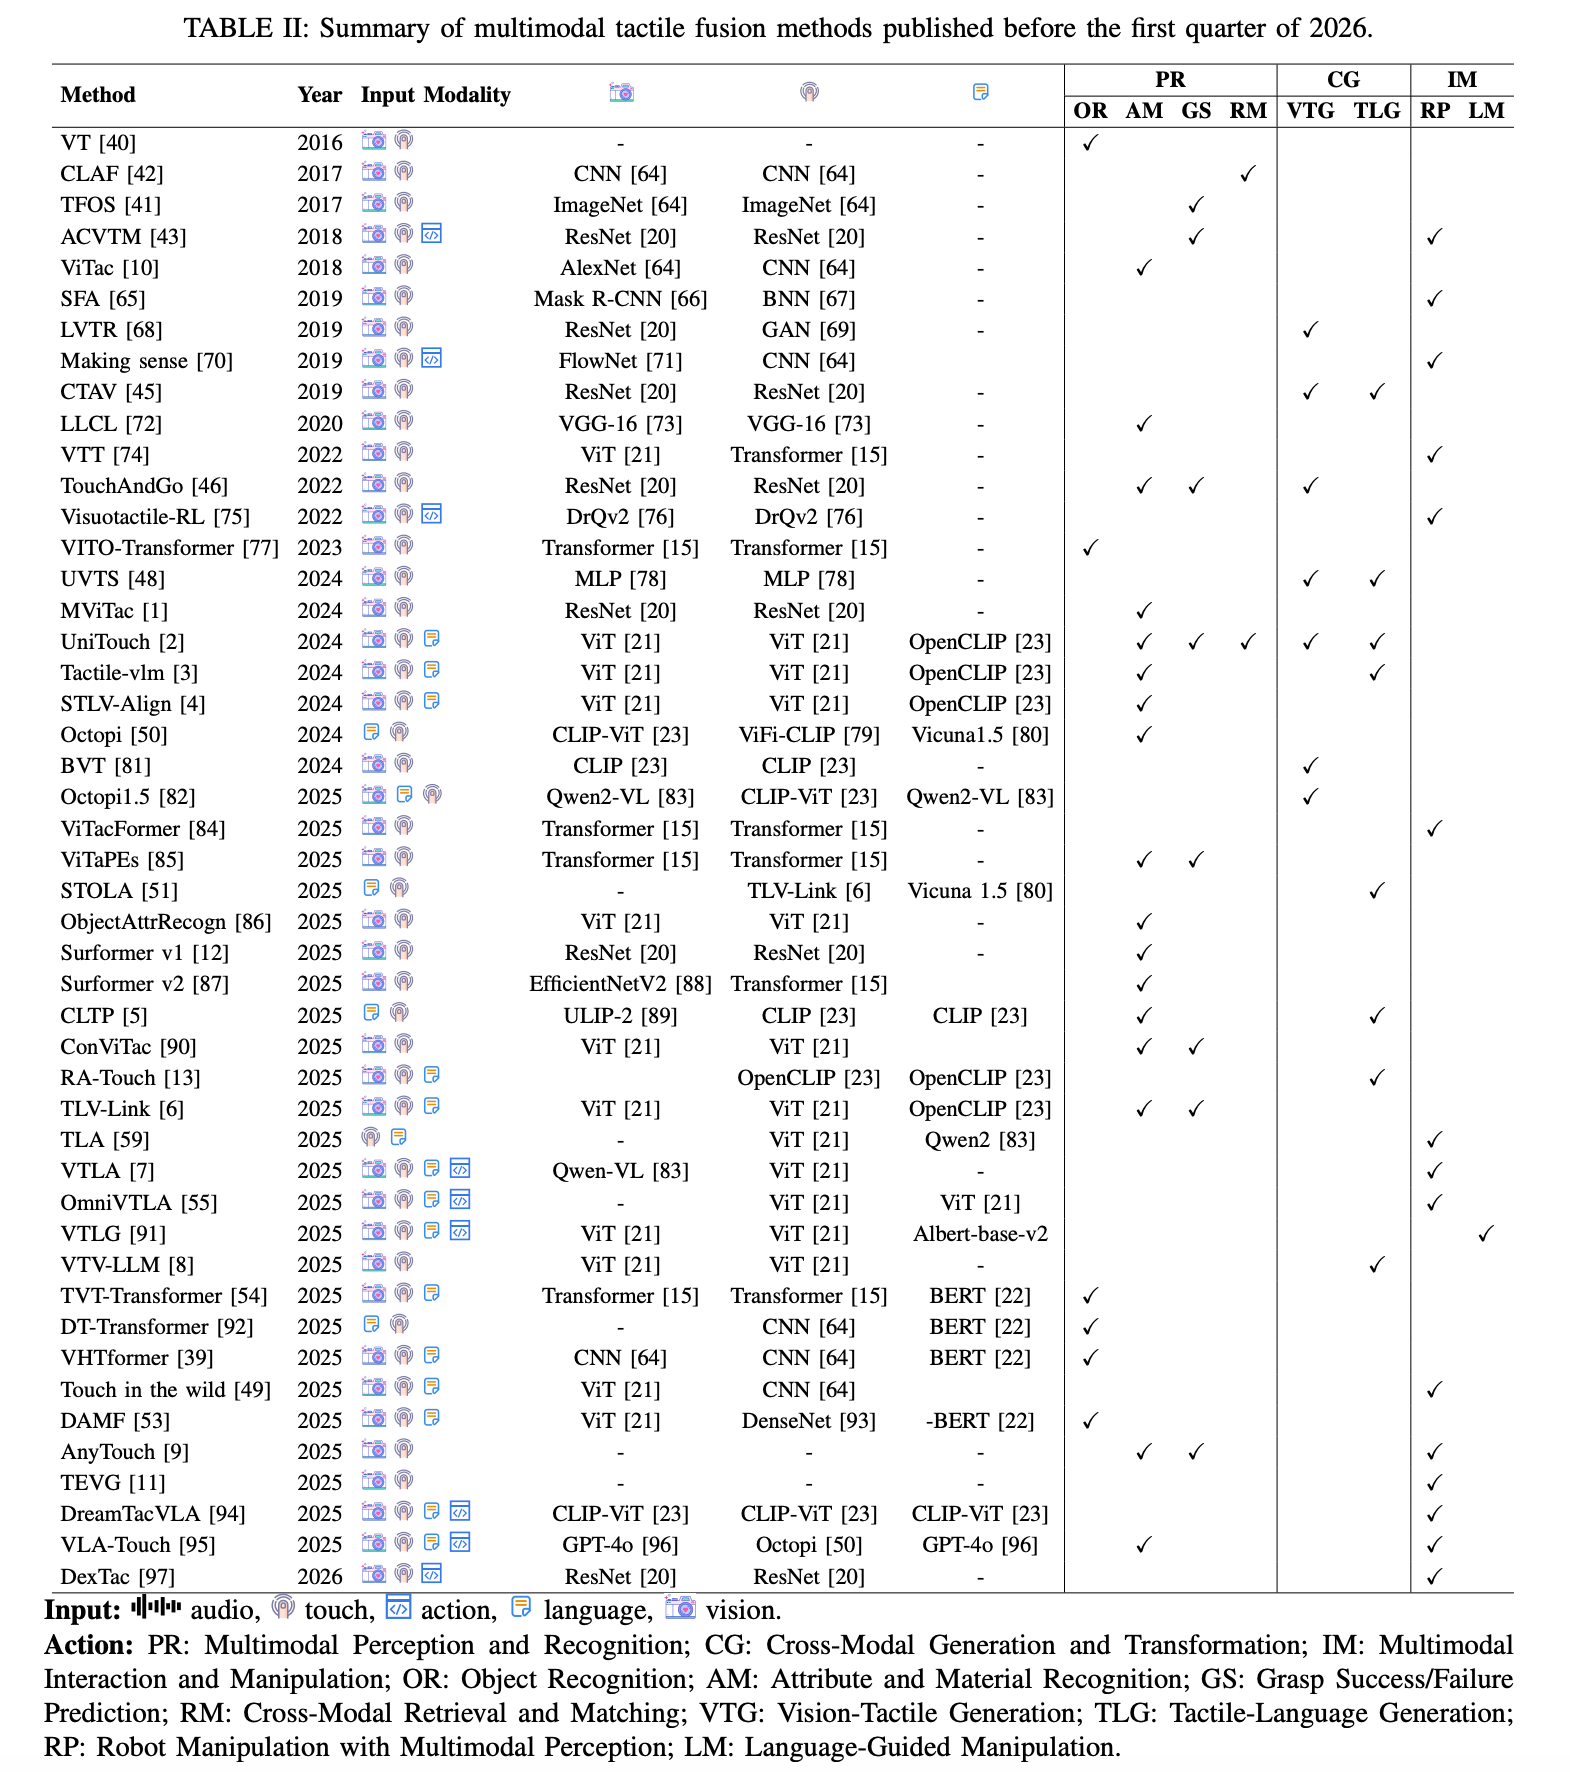
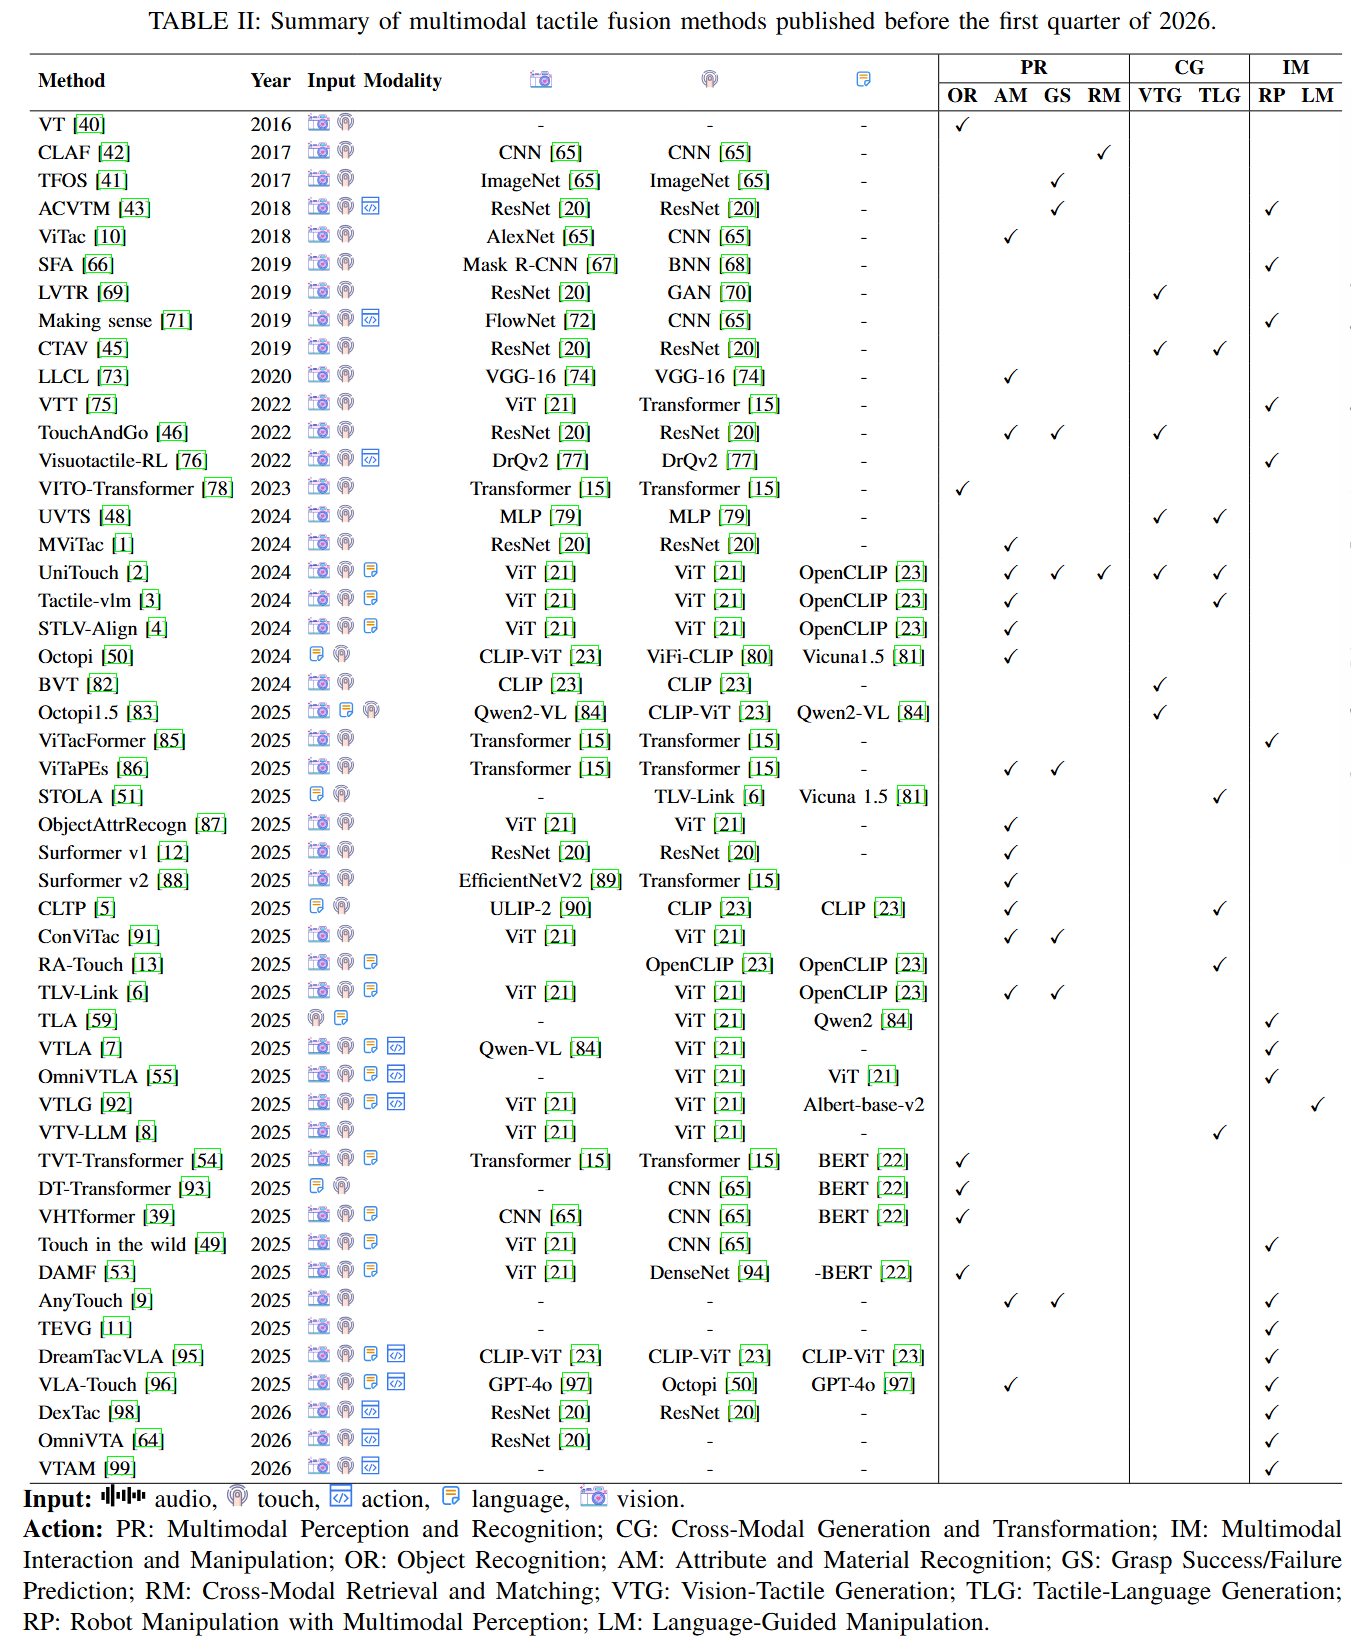
first commit

Changed region(s): [[0.0, 0.0, 0.9948, 1.0], [0.8083, 0.4335, 0.8394, 0.4645], [0.8083, 0.3406, 0.8394, 0.3716]]

diff --git a/README.md b/README.md
@@ -1,7 +1,7 @@
 
 <div align="center">
 
-## Multimodal Tactile Sensing and Fusion: A Survey of Vision, Language, and Contact-Driven Paradigms
+## Tactile-based Multimodal Fusion in Embodied Intelligence: A Survey of Vision, Language, and Contact-Driven Paradigms
 
 [![arXiv](https://img.shields.io/badge/arXiv-TBD-b31b1b.svg)]()
 <img alt="License" src="https://img.shields.io/badge/License-CC%20BY%204.0-blue">
@@ -9,7 +9,10 @@
 ![Visitors](https://api.visitorbadge.io/api/visitors?path=Wayne-coding/Multimodal-Tactile-Sensing-and-Fusion&label=visitors&countColor=%23263759&style=flat)
 <a href="https://github.com/Wayne-coding/Multimodal-Tactile-Sensing-and-Fusion/issues"><img src="https://img.shields.io/github/issues/Wayne-coding/Multimodal-Tactile-Sensing-and-Fusion" alt="Issues Badge"/></a>
 
-Zhixiang Cao<sup>1, 2</sup>, Di Tian<sup>1</sup>, Yanzhou Mu<sup>4</sup>, Xiaolou Sun<sup>5</sup>, Shaofeng Liang<sup>6</sup>, Daizong Liu<sup>7</sup>, Runwei Guan<sup>1*</sup>, Tao Huang<sup>8</sup>, Bin Fang<sup>9</sup>, Henghui Ding<sup>10</sup>, Alex Zhou<sup>11</sup>, and Hui Xiong<sup>1*</sup>
+Zhixiang Cao<sup>1, 2</sup>, Di Tian<sup>1</sup>, Yanzhou Mu<sup>4</sup>, Xiaolou Sun<sup>5</sup>, Shaofeng Liang<sup>6</sup>, Daizong Liu<sup>7</sup>, Runwei Guan<sup>1*</sup>, Tao Huang<sup>8</sup>, Yutao Yue<sup>1</sup>, Henghui Ding<sup>10</sup>, Bin Fang<sup>9</sup>, Alex Zhou<sup>11</sup>, Qing-Long Han<sup>11</sup>, *Fellow, IEEE*, and Hui Xiong<sup>1*</sup>, *Fellow, IEEE*,
+
+
+
 
 </div>
 
@@ -24,6 +27,7 @@ Zhixiang Cao<sup>1, 2</sup>, Di Tian<sup>1</sup>, Yanzhou Mu<sup>4</sup>, Xiaolo
 8. School of Artificial Intelligence, Beijing University of Posts and Telecommunications, China
 9. Institute of Big Data, Fudan University, China
 10. Linkerbot (Beijing) Technology Co., Ltd, China
+11. School of Engineering, Swinburne University of Technology, Melbourne.
 
 <sup>*</sup> Corresponding authors: `runwayrwguan@hkust-gz.edu.cn`, `xionghui@hkust-gz.edu.cn`
 
@@ -377,6 +381,10 @@ Organized by major taxonomy categories and chronological order, the figure highl
 
 * **DexTac**: "Dextac: Learning contact-aware visuotactile policies via hand-by-hand teaching", *2026* [[Paper](https://arxiv.org/pdf/2601.21474)]
 
+* **OmniVTA**: "OmniVTA: Visuo-Tactile World Modeling for Contact-Rich Robotic Manipulation", *2026* [[Paper](https://arxiv.org/pdf/2603.19201)][[Code](https://github.com/MrSecant/OmniVTA)] ![Github stars](https://img.shields.io/github/stars/MrSecant/OmniVTA.svg)
+
+* **VTAM**: "VTAM: Video-Tactile-Action Models for Complex Physical Interaction Beyond VLAs, *2026* [[Paper](https://arxiv.org/abs/2603.23481)]
+
 #### Multimodal Manipulation under Language Instructions
 
 * **VTLG**: "Vtlg: A vision-tactile-language grasp generation method oriented towards task", *2025* [[Paper](https://www.sciencedirect.com/science/article/pii/S0736584525002066)]
@@ -385,13 +393,62 @@ Organized by major taxonomy categories and chronological order, the figure highl
 
 ### Wearable Tactile Systems
 
+*  "A glove-based system for object recognition via visual-tactile fusion", *2019* [[Paper](http://scis.scichina.com/en/2019/050203.pdf)]
+ 
+* "Osmo: Open-source tactile glove for human-to-robot skill transfer", *2025* [[Paper](https://arxiv.org/abs/2512.08920)]
+ 
+* "Freetacman: Robot-free visuo-tactile data collection system for contact-rich manipulation", *2025* [[Paper](https://arxiv.org/abs/2506.01941)]
 
 ### Handheld and Fingertip Sensors
 
+* "A novel multi-modal tactile sensor design using thermochromic material", *2019* [[Paper](http://scis.scichina.com/en/2019/214201.pdf)]
+
+* "A Compact Visuo-Tactile Robotic Skin for Micron-Level Tactile Perception", *2024* [[Paper](https://ieeexplore.ieee.org/abstract/document/10474279)]
+ 
+*  "LightTact: A Visual-Tactile Fingertip Sensor for Deformation-Independent Contact Sensing", *2025* [[Paper](https://arxiv.org/abs/2512.20591)]
+
+* "Simultaneous Tactile-Visual Perception for Learning Multimodal Robot Manipulation", *2025* [[Paper](https://ieeexplore.ieee.org/abstract/document/11425767)]
+
+* "MagicGel: A Novel Visual-Based Tactile Sensor Design with Magnetic Gel", *2025* [[Paper](https://ieeexplore.ieee.org/abstract/document/11246423)]
+ 
+* "A braille detection system based on visuo-tactile sensing", *2025* [[Paper](https://www.sciencedirect.com/science/article/pii/S0263224125001861)]
+ 
+* "Touch in the wild: Learning fine-grained manipulation with a portable visuo-tactile gripper", *2025* [[Paper](https://arxiv.org/abs/2507.15062)]
+
+* "In-the-Wild Compliant Manipulation with UMI-FT", *2026* [[Paper](https://arxiv.org/abs/2601.09988)]
 
 ### Robotic Skin and Sensor Patches
 
+*  "Multimodal tactile sensing fused with vision for dexterous robotic housekeeping", *2024* [[Paper](https://www.nature.com/articles/s41467-024-51261-5)]
+ 
+* "A Large-area Tactile Sensor for Distributed Force Sensing Using Highly Sensitive Piezoresistive Sponge", *2024* [[Paper](https://ieeexplore.ieee.org/abstract/document/10610739)]
+ 
+* "Biomimetic hydrogel-based sensors with dual-mode dynamic-static tactile sensing capability enabling robotic hand for intelligent material property recognition", *2025* [[Paper](https://onlinelibrary.wiley.com/doi/full/10.1002/inf2.70041)]
 
+* "A Large-Area Robotic Skin for Intelligent Tactile Interaction of Collaborative Robots", *2025* [[Paper](https://ieeexplore.ieee.org/abstract/document/10836225)]
+
+* "A Biomimetic Ionic Hydrogel Synapse for Self-Powered Tactile-Visual Fusion Perception", *2025* [[Paper](https://advanced.onlinelibrary.wiley.com/doi/abs/10.1002/adfm.202500048)]
+ 
+* "Pollen-Biochar-Based Tactile-Pain Dual-Function Sensors for Intelligent Robotics", *2025* [[Paper](https://advanced.onlinelibrary.wiley.com/doi/abs/10.1002/adfm.202522727)]
+ 
+* "Biomimetic multimodal tactile sensing enables human-like robotic perception", *2026* [[Paper](https://www.nature.com/articles/s44460-025-00006-y)]
+ 
 ### Gripper-Mounted and Integrated Sensors
 
+* "Multimodal tactile sensing fused with vision for dexterous robotic housekeeping", *2024* [[Paper](https://www.nature.com/articles/s41467-024-51261-5)]
 
+* "A Compact Visuo-Tactile Robotic Skin for Micron-Level Tactile Perception", *2024* [[Paper](https://ieeexplore.ieee.org/abstract/document/10474279)]
+
+* "Touch in the wild: Learning fine-grained manipulation with a portable visuo-tactile gripper", *2025* [[Paper](https://arxiv.org/abs/2507.15062)]
+ 
+* "LightTact: A Visual-Tactile Fingertip Sensor for Deformation-Independent Contact Sensing", *2025* [[Paper](https://arxiv.org/abs/2512.20591)]
+ 
+* "Simultaneous Tactile-Visual Perception for Learning Multimodal Robot Manipulation", *2025* [[Paper](https://ieeexplore.ieee.org/abstract/document/11425767)]
+ 
+* "TacUMI: A Multi-Modal Universal Manipulation Interface for Contact-Rich Tasks", *2026* [[Paper](https://arxiv.org/abs/2601.14550)]
+ 
+## Citation
+Thank you for your interest! If you find our work helpful, please consider citing us with:
+```bibtex
+xx
+```
